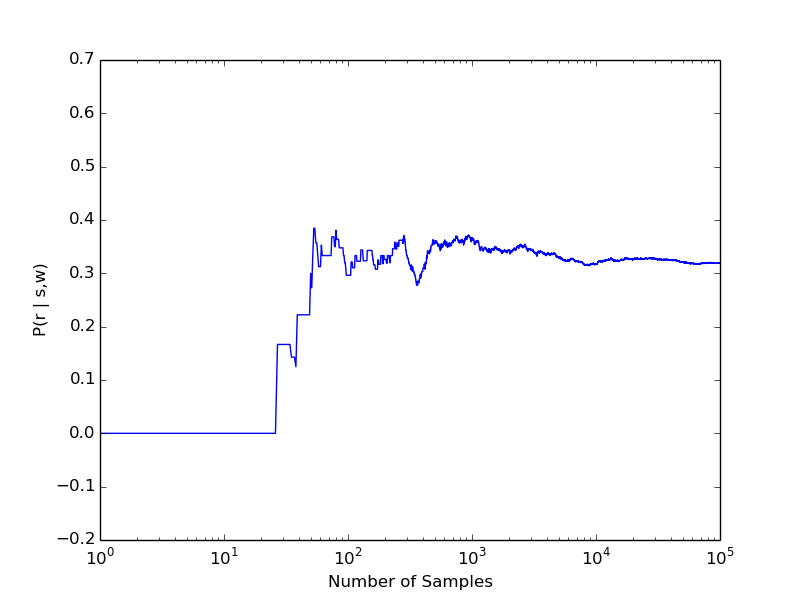
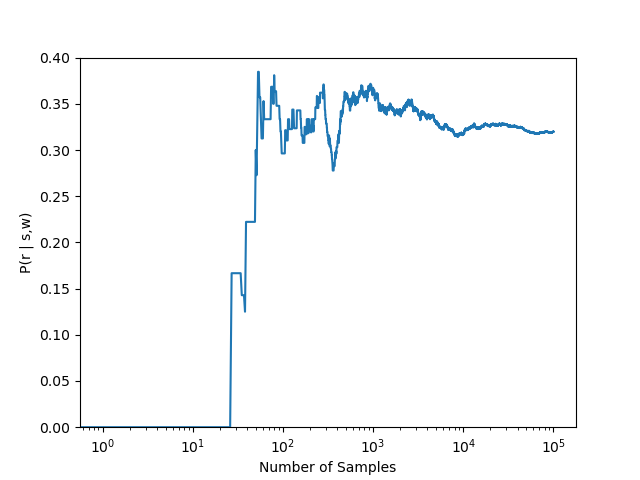
feat: complete Question 2.c

diff --git a/main.py b/main.py
@@ -7,7 +7,7 @@ import matplotlib.pyplot as plt
 if __name__ == '__main__':
     question = sys.argv[1]
 
-    if question == '2':
+    if question == '2.ab':
         # Question 2.a
         file = open('rs_1.csv')
         csv_reader = csv.reader(file)
@@ -29,15 +29,12 @@ if __name__ == '__main__':
                 temp = (rain / (rain + no_rain))
             result.append(temp)
 
-        print('P(r | s,w) = {0}'.format(result[-1]))
-        print('rain: {0}'.format(rain))
-        print('no rain: {0}'.format(no_rain))
-        print('total: {0}'.format(rain+no_rain))
+        # print('P(r | s,w) = {0}'.format(result[-1]))
         plt.plot(result)
         plt.xlabel('Number of Samples')
         plt.ylabel('P(r | s,w)')
         plt.xscale('log')
-        plt.ylim([-0.2, 0.70])
+        plt.ylim([0, 0.40])
         plt.savefig('a.png')
 
         # Question 2.b
@@ -65,9 +62,43 @@ if __name__ == '__main__':
 
         plt.plot(result_plus_epsilon)
         plt.plot(result_minus_epsilon)
-        print(len(result_plus_epsilon))
-        print(len(result_minus_epsilon))
+        plt.ylim([-0.20, 0.70])
         plt.savefig('b.png')
 
+    elif question == '2.c':
+        # Question 2.a
+        file = open('lw_1.csv')
+        csv_reader = csv.reader(file)
+
+        rows = []
+        for row in csv_reader:
+            rows.append(row)
+
+        result = [0]
+        rain = no_rain = 0.0
+        temp_rain = temp_no_rain = 0.0
+        temp = 0
+
+        for i in range(len(rows)):
+            if rows[i][0] == '1':
+                rain += 1.0
+                temp_rain += float(rows[i][1])
+                temp = (temp_rain / (temp_rain + temp_no_rain))
+            elif rows[i][0] == '2':
+                no_rain += 1.0
+                temp_no_rain += float(rows[i][1])
+                temp = (temp_rain / (temp_rain + temp_no_rain))
+            result.append(temp)
+
+        print('P(r | s,w) = {0}'.format(result[-1]))
+        print('rain: {0}'.format(rain))
+        print('no rain: {0}'.format(no_rain))
+        print('total: {0}'.format(rain + no_rain))
+        plt.plot(result)
+        plt.xlabel('Number of Samples')
+        plt.ylabel('P(r | s,w)')
+        plt.xscale('log')
+        plt.ylim([0, 0.70])
+        plt.savefig('c.png')
     else:
         print('Invalid question number')
